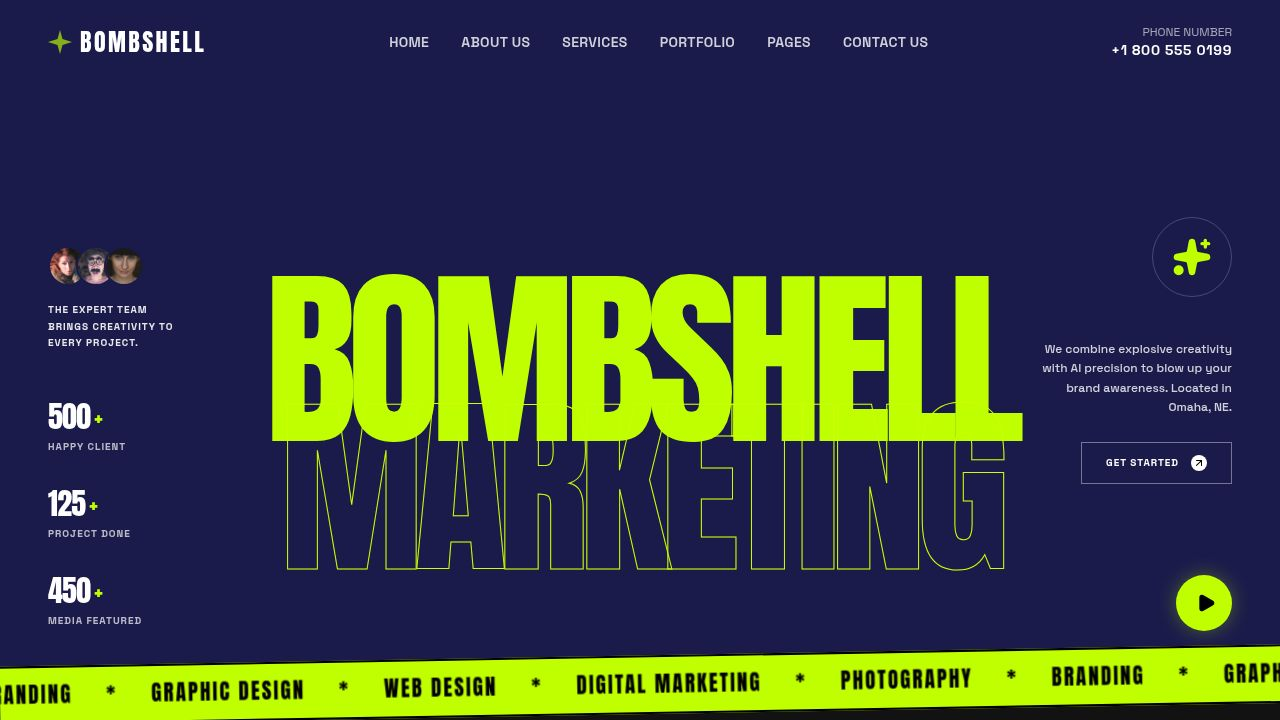
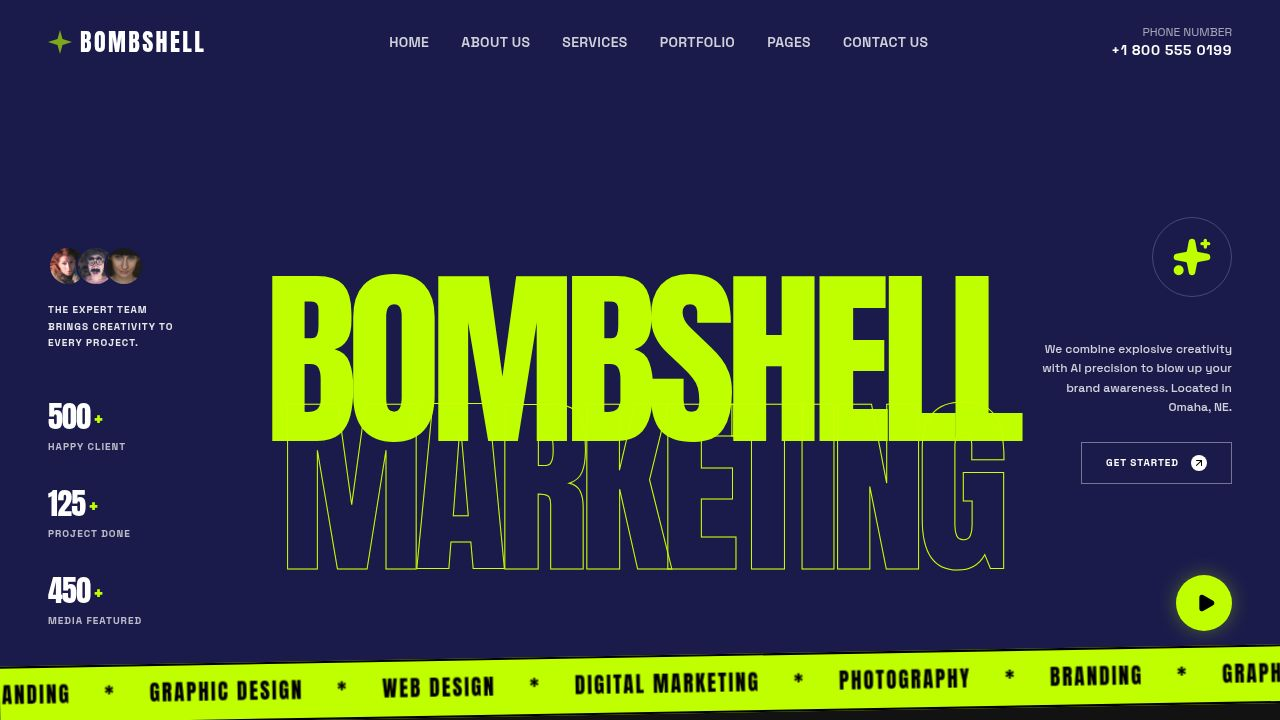
Add a new section showcasing the team with interactive profiles
Introduces a new `Team` component with an accordion-style gallery, displaying team member details and stats, integrated into the Home page.

Replit-Commit-Author: Agent
Replit-Commit-Session-Id: b97b545a-2953-4744-8807-01dbd9bc97d5
Replit-Commit-Checkpoint-Type: full_checkpoint
Replit-Commit-Event-Id: 01883e74-729d-4a61-84fd-56d7a3364c69
Replit-Commit-Screenshot-Url: https://storage.googleapis.com/screenshot-production-us-central1/cacd662f-1fbf-427a-8dde-dff8a0747f32/b97b545a-2953-4744-8807-01dbd9bc97d5/KY69X2X
Replit-Helium-Checkpoint-Created: true

diff --git a/client/src/components/Team.tsx b/client/src/components/Team.tsx
@@ -1,0 +1,119 @@
+import { useState } from "react";
+import { Plus } from "lucide-react";
+import team1 from "@/assets/images/team-1.jpg";
+import team2 from "@/assets/images/team-2.jpg";
+import team3 from "@/assets/images/team-3.jpg";
+import team4 from "@/assets/images/team-4.jpg";
+
+const teamMembers = [
+  {
+    id: 1,
+    name: "Liam Johnson",
+    role: "Art Director",
+    image: team1,
+  },
+  {
+    id: 2,
+    name: "Sarah Miller",
+    role: "Lead Designer",
+    image: team2,
+  },
+  {
+    id: 3,
+    name: "Jessica Chen",
+    role: "Marketing Head",
+    image: team3,
+  },
+  {
+    id: 4,
+    name: "David Smith",
+    role: "Senior Developer",
+    image: team4,
+  },
+];
+
+export function Team() {
+  const [activeIndex, setActiveIndex] = useState(0);
+
+  return (
+    <section id="team" className="bg-[#f0f0f0] py-24 relative overflow-hidden">
+      {/* Noise Texture */}
+      <div className="absolute inset-0 opacity-30 pointer-events-none mix-blend-multiply" 
+           style={{ backgroundImage: 'url("https://www.transparenttextures.com/patterns/noise.png")' }}>
+      </div>
+
+      <div className="container mx-auto px-4 relative z-10">
+        <div className="grid grid-cols-1 lg:grid-cols-12 gap-12 items-center">
+          
+          {/* Left Content */}
+          <div className="lg:col-span-5 flex flex-col items-start">
+            <div className="flex items-center gap-2 mb-4">
+              <span className="text-primary text-xl">✦</span>
+              <span className="text-black/60 uppercase tracking-widest text-xs font-bold">Meet The Expert</span>
+            </div>
+            
+            <h2 className="text-6xl md:text-7xl font-display text-black uppercase leading-[0.85] mb-8">
+              Team Of <br/> Experts
+            </h2>
+            
+            <p className="text-black/60 text-sm leading-relaxed mb-12 max-w-md">
+              Our diverse team of creative minds brings together expertise from design, technology, and strategy to build brands that stand out in the digital landscape.
+            </p>
+
+            <div className="flex items-start gap-12">
+              <div>
+                <div className="flex items-center text-4xl font-display text-black mb-2">
+                   <span className="text-primary mr-2">✦</span>
+                   300<span className="text-primary ml-1 text-2xl">+</span>
+                </div>
+                <p className="text-[10px] font-bold uppercase tracking-widest text-black/50">Successful Projects</p>
+              </div>
+              
+              <div>
+                <div className="flex items-center text-4xl font-display text-black mb-2">
+                   <span className="text-primary mr-2">✦</span>
+                   200<span className="text-primary ml-1 text-2xl">+</span>
+                </div>
+                <p className="text-[10px] font-bold uppercase tracking-widest text-black/50">Brands Grow Globally</p>
+              </div>
+            </div>
+          </div>
+
+          {/* Right Content - Accordion Team */}
+          <div className="lg:col-span-7 h-[500px] flex gap-2">
+            {teamMembers.map((member, index) => (
+              <div 
+                key={member.id}
+                className={`relative h-full transition-all duration-500 ease-out cursor-pointer overflow-hidden group ${
+                  activeIndex === index ? 'flex-[3]' : 'flex-1 grayscale hover:grayscale-0'
+                }`}
+                onMouseEnter={() => setActiveIndex(index)}
+              >
+                {/* Image Background */}
+                <img 
+                  src={member.image} 
+                  alt={member.name}
+                  className="absolute inset-0 w-full h-full object-cover transition-transform duration-700 group-hover:scale-110"
+                />
+                
+                {/* Overlay Gradient */}
+                <div className={`absolute inset-0 bg-gradient-to-t from-black/80 via-transparent to-transparent transition-opacity duration-300 ${
+                  activeIndex === index ? 'opacity-100' : 'opacity-0'
+                }`} />
+
+                {/* Content (Only visible when active) */}
+                <div className={`absolute bottom-0 left-0 p-8 w-full transition-all duration-300 transform ${
+                  activeIndex === index ? 'translate-y-0 opacity-100' : 'translate-y-4 opacity-0'
+                }`}>
+                  <h3 className="text-3xl font-display uppercase text-white mb-1 leading-none">{member.name}</h3>
+                  <p className="text-primary text-xs font-bold uppercase tracking-widest">{member.role}</p>
+                </div>
+              </div>
+            ))}
+          </div>
+
+        </div>
+      </div>
+    </section>
+  );
+}

diff --git a/client/src/pages/Home.tsx b/client/src/pages/Home.tsx
@@ -3,6 +3,7 @@ import { Hero } from "@/components/Hero";
 // import { Marquee } from "@/components/Marquee"; // Integrated into Hero
 import { Services } from "@/components/Services";
 import { Portfolio } from "@/components/Portfolio";
+import { Team } from "@/components/Team";
 import { About } from "@/components/About";
 
 export default function Home() {
@@ -17,6 +18,7 @@ export default function Home() {
             <Services />
         </div>
         <Portfolio />
+        <Team />
         <About />
       </main>
       
